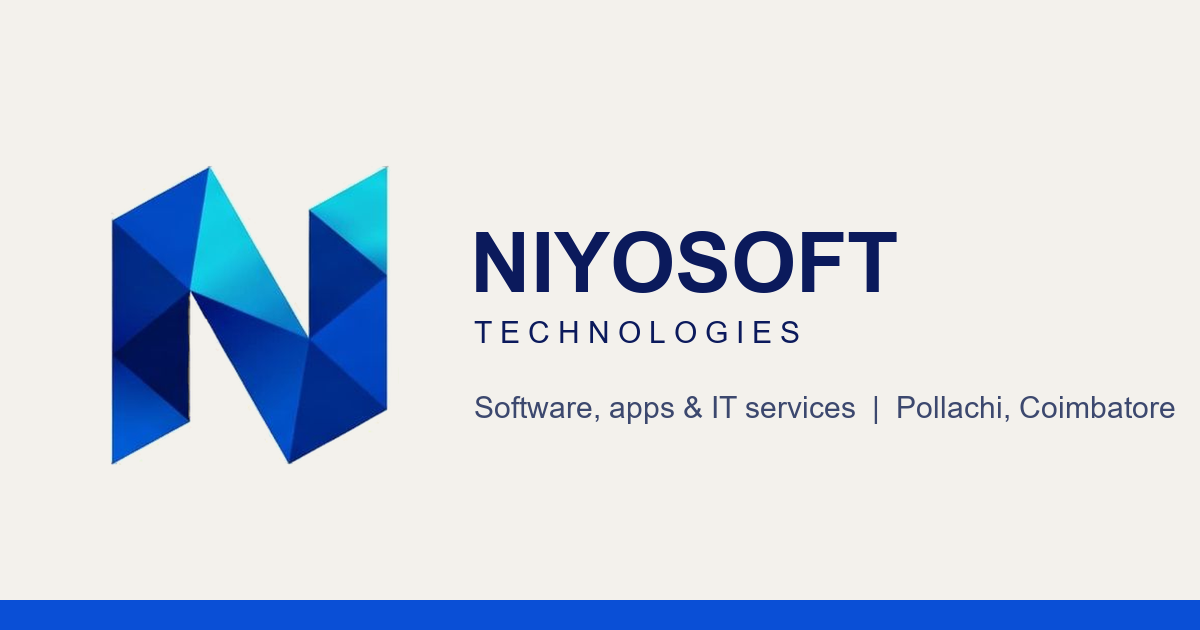
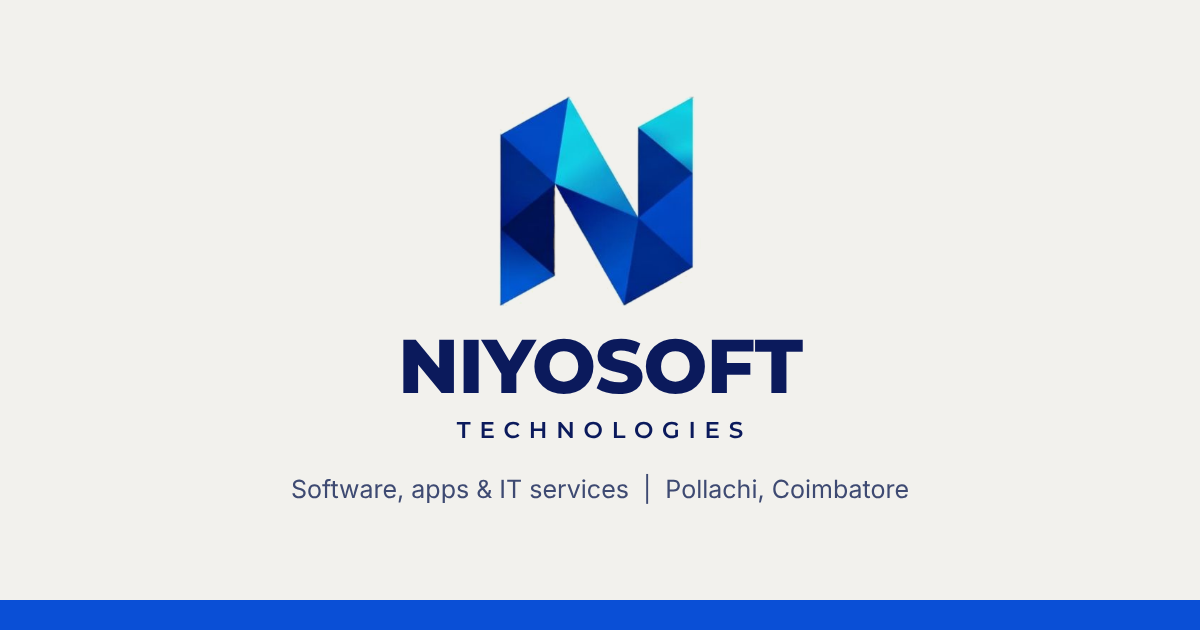
feat: stack the wordmark under the N mark across the site
Header, footer and the social share image now use the stacked brand
lockup: N mark on top, NIYOSOFT and TECHNOLOGIES centered below.

Claude-Session: https://claude.ai/code/session_01BNs6xDrmf8ZnWAANfD4XFW

diff --git a/src/components/Logo.tsx b/src/components/Logo.tsx
@@ -1,13 +1,22 @@
 import Image from "next/image";
 import Link from "next/link";
 
-export function Logo({ light = false }: { light?: boolean }) {
+type LogoSize = "sm" | "lg";
+
+const sizes: Record<LogoSize, { mark: string; name: string; sub: string; gap: string }> = {
+  sm: { mark: "h-7", name: "text-[1.05rem]", sub: "text-[0.42rem] tracking-[0.36em] mt-[3px]", gap: "mt-1" },
+  lg: { mark: "h-14", name: "text-[1.7rem]", sub: "text-[0.66rem] tracking-[0.38em] mt-1.5", gap: "mt-2" },
+};
+
+/** Stacked brand lockup: N mark on top, NIYOSOFT and TECHNOLOGIES centered beneath it. */
+export function Logo({ light = false, size = "sm" }: { light?: boolean; size?: LogoSize }) {
+  const s = sizes[size];
   return (
-    <Link href="/" className="flex items-center gap-2.5" aria-label="Niyosoft Technologies home">
-      <Image src="/images/logo-mark-sm.png" alt="" width={81} height={84} priority className="h-10 w-auto" />
-      <span className="flex flex-col leading-none">
-        <span className={`font-brand text-xl font-extrabold tracking-tight ${light ? "text-white" : "text-navy"}`}>NIYOSOFT</span>
-        <span className={`mt-1 font-brand text-[0.6rem] font-semibold tracking-[0.32em] ${light ? "text-white/70" : "text-navy/80"}`}>TECHNOLOGIES</span>
+    <Link href="/" className="inline-flex flex-col items-center leading-none" aria-label="Niyosoft Technologies home">
+      <Image src="/images/logo-mark-sm.png" alt="" width={81} height={84} priority className={`${s.mark} w-auto`} />
+      <span className={`${s.gap} flex flex-col items-center`}>
+        <span className={`font-brand font-extrabold tracking-tight ${s.name} ${light ? "text-white" : "text-navy"}`}>NIYOSOFT</span>
+        <span className={`font-brand font-semibold ${s.sub} pl-[0.36em] ${light ? "text-white/70" : "text-navy/80"}`}>TECHNOLOGIES</span>
       </span>
     </Link>
   );

diff --git a/src/components/Footer.tsx b/src/components/Footer.tsx
@@ -9,7 +9,7 @@ export function Footer() {
     <footer className="border-t border-navy/10 bg-white">
       <div className="mx-auto grid max-w-6xl gap-10 px-4 py-14 sm:px-6 md:grid-cols-[1.4fr_1fr_1.4fr]">
         <div>
-          <Logo />
+          <Logo size="lg" />
           <p className="mt-4 max-w-xs text-sm leading-relaxed text-slate">{site.tagline}.</p>
           <p className="mt-4 inline-flex rounded-full border border-navy/15 px-3 py-1 text-xs font-medium text-navy">
             MSME Registered &middot; {site.udyam}

diff --git a/src/components/Header.tsx b/src/components/Header.tsx
@@ -68,7 +68,7 @@ export function Header() {
 
   return (
     <header className="sticky top-0 z-50 border-b border-navy/10 bg-paper/90 backdrop-blur">
-      <div className="mx-auto flex h-18 max-w-6xl items-center justify-between px-4 sm:px-6">
+      <div className="mx-auto flex h-20 max-w-6xl items-center justify-between px-4 sm:px-6">
         <Logo />
         <nav className="hidden items-center gap-8 md:flex" aria-label="Main">
           {navLinks.map((link) => (
